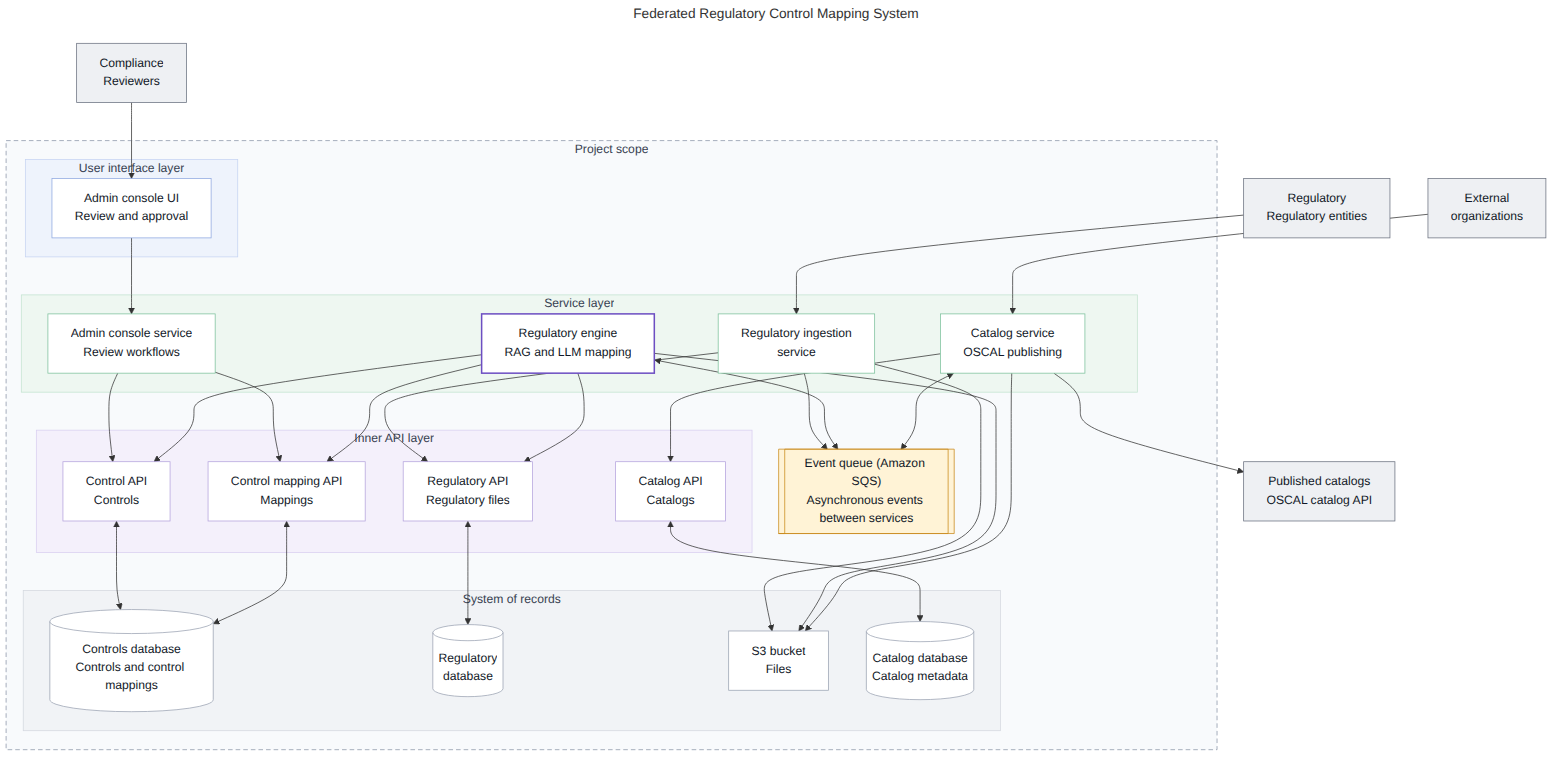
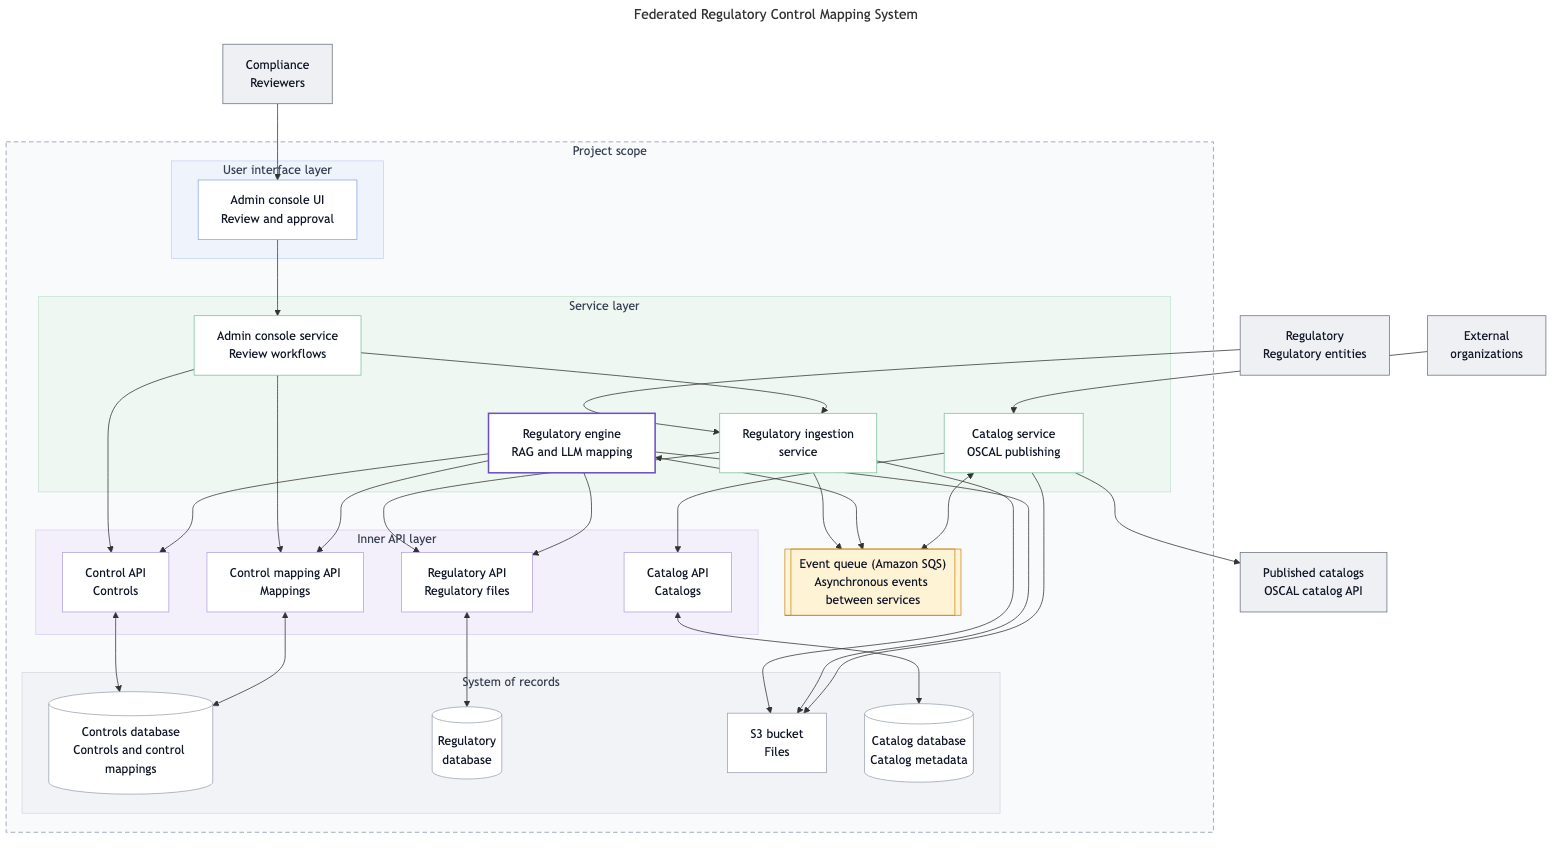
docs: DOCS-11: show the admin console path through the ingestion service
Figure 10.1 gains the edge from the admin console service to the regulatory
ingestion service. New Figure 10.3, a sequence diagram of listing and
creating authorities as built (201 with an empty body and Location; 400, 404
and 409 passed through; 502 when the Regulatory API fails), with a summary
table and links to the OpenAPI contracts.

diff --git a/systems/control-mapping/README.md b/systems/control-mapping/README.md
@@ -51,6 +51,7 @@ flowchart TB
   cat <--> sqs
   acs --> capi
   acs --> mapi
+  acs --> ing
   ing --> rapi
   ing --> s3
   eng --> capi
@@ -179,6 +180,78 @@ flowchart TB
 <!-- /mermaid-source -->
 
 Files: [SVG](../../assets/diagrams/control-mapping/fig-10-2-processing-flow.svg) · [PNG](../../assets/diagrams/control-mapping/fig-10-2-processing-flow.png) · [Original](../../assets/diagrams/control-mapping/fig-10-2-processing-flow.original.png) · [Mermaid source](../../assets/diagrams/control-mapping/fig-10-2-processing-flow.mmd)
+
+## Listing and creating authorities
+
+The admin console service reads and writes regulatory data through the regulatory ingestion
+service (the edge from Admin console service to Regulatory ingestion service in Figure 10.1). The
+ingestion service calls the Regulatory API, which owns the regulatory database. The admin console
+service is shaped around the console's screens; the ingestion service validates requests and passes
+the Regulatory API's errors through unchanged.
+
+**Figure 10.3: Listing and creating authorities**
+
+<!-- mermaid-source: assets/diagrams/control-mapping/fig-10-3-authorities-sequence.mmd -->
+```mermaid
+---
+title: "Listing and creating authorities"
+---
+sequenceDiagram
+  autonumber
+  actor R as Reviewer
+  participant UI as Admin console UI
+  participant ACS as Admin console service
+  participant ING as Regulatory ingestion service
+  participant API as Regulatory API
+  participant DB as Regulatory database
+
+  Note over R,DB: List authorities (dashboard)
+  R->>UI: Open the dashboard
+  UI->>ACS: Get the authorities for the dashboard
+  ACS->>ING: GET /api/v1/authorities
+  ING->>API: GET /api/v1/authorities
+  API->>DB: Select from authorities
+  DB-->>API: Rows
+  API-->>ING: 200, list of authorities
+  ING-->>ACS: 200, list of authorities
+  ACS-->>UI: Dashboard list
+
+  Note over R,DB: Create an authority
+  R->>UI: Submit name and jurisdiction
+  UI->>ACS: Create authority (name, jurisdiction)
+  ACS->>ING: POST /api/v1/authorities (name, jurisdiction, createdBy)
+  ING->>ING: Validate the request
+  ING->>API: POST /api/v1/authorities
+  API->>DB: Insert into authorities (created_at, enabled = true)
+  DB-->>API: New id
+  API-->>ING: 201, empty body, Location /api/v1/authorities/{id}
+  ING-->>ACS: 201, empty body, Location on the ingestion service
+  ACS-->>UI: Created
+
+  Note over R,DB: Errors
+  alt Invalid fields
+    ING-->>ACS: 400 with an error per field
+  else Duplicate name or unknown id
+    API-->>ING: 409 or 404 problem details
+    ING-->>ACS: The same 409 or 404, unchanged
+  else Regulatory API fails or cannot be reached
+    ING-->>ACS: 502 problem details
+  end
+```
+<!-- /mermaid-source -->
+
+Files: [SVG](../../assets/diagrams/control-mapping/fig-10-3-authorities-sequence.svg) · [PNG](../../assets/diagrams/control-mapping/fig-10-3-authorities-sequence.png) · [Mermaid source](../../assets/diagrams/control-mapping/fig-10-3-authorities-sequence.mmd)
+
+| Call | Success | Errors |
+|---|---|---|
+| `GET /api/v1/authorities` | `200` with the list | `502` if the Regulatory API fails |
+| `GET /api/v1/authorities/{id}` | `200` with the authority | `404` unknown id, `400` malformed id |
+| `POST /api/v1/authorities` | `201`, empty body, `Location` header | `400` invalid fields, `409` duplicate name, `502` |
+
+Errors are RFC 9457 problem details. Contracts: the OpenAPI documents of
+[regulatory-api](https://github.com/GRaCe-GRC/regulatory-api#authorities-api) and
+[regulatory-ingestion-service](https://github.com/GRaCe-GRC/regulatory-ingestion-service#authorities-api)
+(`/v3/api-docs`).
 
 ## Data model
 
